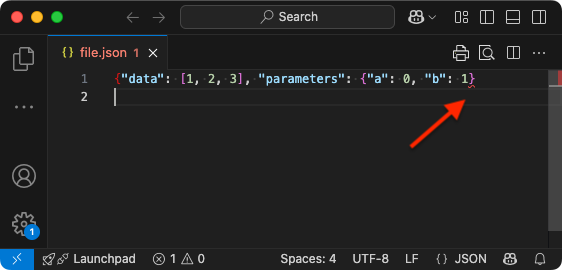
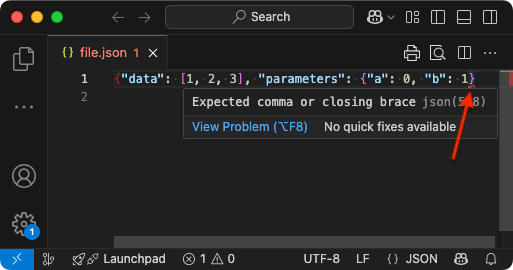
add some details and clarification to address MR comments

diff --git a/ide-git-integration/what-is-an-ide.md b/ide-git-integration/what-is-an-ide.md
@@ -7,25 +7,33 @@ use a basic text editor with separate console (or terminal) and file explorer wi
 ## Why not use a text editor?
 
 You certainly can edit text in *Notepad.exe* or *TextEdit.app*. It might even have spellcheck, but
-that's about it. An IDE has a text editor but can do far more than check your spelling.
+that's about it. Other common text editors, which don't have a spellchecker, commonly used by
+developers on Linux/Unix systems include vim, emacs, and nano/pico. An IDE has a text editor but
+can do far more than check your spelling.
 
 ## Benefits of using a text editor
 
 1. A text editor is a lightweight application that probably starts up and loads your file quickly
 2. Available on just about any system
 3. Spellcheck
+4. Intuitive and easy to use
 
 ## Benefits of using an IDE
 
 Let's start with the cons:
 
 1. Depending on how you set it up, it may not be a lightweight application and may take time to
-   start up.
+   start up
 2. May not be available on every system you use
+3. There may be a learning curve
 
 Pros:
 
-1. **Integrated tools**, e.g. a file system explorer, terminal, document outline, etc.
+1. **Integrated tools**
+   1. Integrated terminal - compile and deploy applications from within the IDE
+   2. Version control - view git history and diffs or manage conflicts in the IDE GUI
+   3. File and project management within the IDE (file explorer)
+   4. Collaboration tools help apply standards across teams (e.g. spaces vs. tabs, formatting)
 2. **Support for multiple programming languages** (e.g. C++, Python, R, bash) and file formats
    (e.g. JSON, XML, YAML, CSV)
 3. **Syntax highlighting** - keywords, variable names, data, brackets, etc. can be shown with
@@ -40,17 +48,26 @@ Pros:
 6. **Refactoring** - IDEs can change the name of a variable within the scope of a specific function
    or change the the name of a function or its parameters across multiple files
 7. **Debugging** - though inserting print statements can be, technically speaking, a form of
-   debugging, and IDE may allow you to set break points and step through the code while it executes
+   debugging, an IDE may allow you to set break points and step through the code while it executes
    to see the intermediate values assigned to variables
 8. **Customization** - IDEs often have customizeable themes and styles, and many have large
    libraries plugins available to extend the IDE's functionality to meet your needs
+9.  **AI integration** - IDEs may be able to incorporate AI tools for code generation (e.g. GitHub
+   CoPilot) and more advanced code completion or refactoring, but this will not be discussed in
+   this tutorial.
 
-## Syntax checking and highlighting?
+## Syntax checking and highlighting
+
+It's worth mentioning again - ***Syntax Highlighting!*** Not only will an IDE use colors and fonts
+to help make most files easier to read, it can help you find mistakes. For example, this simple
+JSON string has an error that may not be obvious in a basic text editor.
 
 ![Text editor - did I miss something?](img/editor-did-i-miss-something.png) Is something missing?
 
-![Missing bracket in an IDE](img/ide-missing-bracket.png)
+Here's the same JSON string in VSCode. In addition to differentiating between keys and values with
+font color, the IDE puts a red squiggle under the last curly bracket to indicate a syntax error
+(like a spelling error). The first curly bracket is also in red to indicate that it does not have a
+matching (closing) bracket. In many IDEs, you can even hover over the squiggle to get information
+about the error.
 
-Here, the IDE (VSCode) not only highlights different parts of the JSON object in different colors,
-it puts a red squiggle under the last bracket to highlight the syntax error - a missing curly
-bracket. The unclosed curly bracket at the start of the line is also in red.
+![Missing bracket in an IDE](img/ide-missing-bracket.png)
